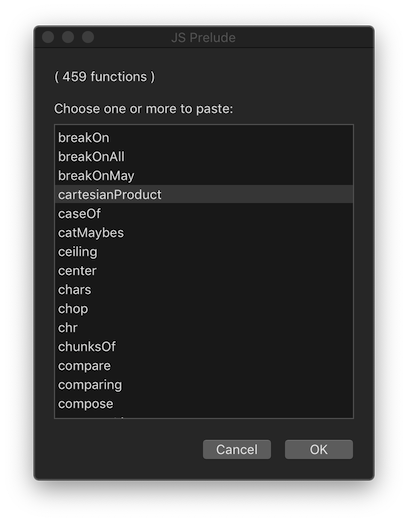
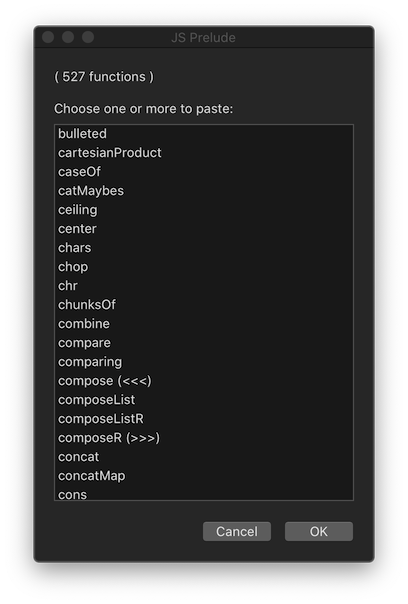
Updated ReadMe.md and the included png

Changed region(s): [[0.1176, 0.092, 0.8824, 0.8276], [0.0882, 0.8276, 0.9118, 0.9502], [0.0882, 0.0307, 0.9118, 0.092]]

diff --git a/README.md b/README.md
@@ -24,50 +24,103 @@ in the case of macOS, the [jxaSystemIO.js](https://github.com/RobTrew/prelude-jx
 ```javascript
 (() => {
     'use strict';
+    
+    // Display a menu of functions to select and copy.
+    // Rob Trew @2020
 
-    // Library files at:
-    // https://github.com/RobTrew/prelude-jxa
-    const jsonPath = '~/prelude-jxa/jsPreludeDict.json';
+    ObjC.import('AppKit')
 
-    // main :: IO ()
-    const main = () =>
-        bindLR(
-            bindLR(
-                doesFileExist(jsonPath) ? (
-                    readFileLR(jsonPath)
-                ) : Left(`File not found at path: '${fp}'`),
-                jsonParseLR
-            ),
-            dctFns => {
-                const
-                    sa = standardSEAdditions(),
-                    ks = Object.keys(dctFns),
-                    choice = (
-                        sa.activate(),
-                        sa.chooseFromList(
-                            ks, {
-                                withTitle: 'JS Prelude',
-                                withPrompt: `( ${ks.length} functions )` +
-                                    '\n\nChoose one or more to paste:',
-                                defaultItems: ks[0],
-                                multipleSelectionsAllowed: true,
-                                emptySelectionAllowed: true
-                            }
+    // ---------------------- MAIN ----------------------
+    const main = () => {
+        const inner = () => {
+            const
+                fpFolder = '~/prelude-jxa',
+                menuJSONFile = 'jsPreludeMenu.json';
+            return either(
+                alert('JavaScript functions')
+            )(
+                // Copied to clipboard and returned.
+                x => (
+                    copyText(x),
+                    x
+                )
+            )(
+                bindLR(
+                    readFileLR(
+                        combine(fpFolder)(menuJSONFile)
+                    )
+                )(
+                    json => bindLR(
+                        jsonParseLR(json)
+                    )(
+                        dict => bindLR(
+                            showMenuLR(true)(
+                                'Functions'
+                            )(Object.keys(dict))
+                        )(
+                            ks => Right(
+                                ks.map(k => dict[k])
+                                .join('\n\n\n')
+                            )
                         )
-                    );
-                return choice ? (() => {
-                    const
-                        strFns = choice.map(k => dctFns[k])
-                        .join('\n\n');
-                    return (
-                        sa.setTheClipboardTo(strFns),
-                        Right(strFns)
-                    );
-                })() : Left('User cancelled.');
-            }
-        );
+                    )
+                )
+            )
+        };
 
-    // GENERIC FUNCTIONS --------------------------------------
+        // alert :: String => String -> IO String
+        const alert = title =>
+            s => {
+                const sa = Object.assign(
+                    Application('System Events'), {
+                        includeStandardAdditions: true
+                    });
+                return (
+                    sa.activate(),
+                    sa.displayDialog(s, {
+                        withTitle: title,
+                        buttons: ['OK'],
+                        defaultButton: 'OK'
+                    }),
+                    s
+                );
+            };
+
+        // copyText :: String -> IO String
+        const copyText = s => {
+            const pb = $.NSPasteboard.generalPasteboard;
+            return (
+                pb.clearContents,
+                pb.setStringForType(
+                    $(s),
+                    $.NSPasteboardTypeString
+                ),
+                s
+            );
+        };
+
+        return inner();
+    };
+
+    // ---------------- JS PRELUDE - JXA ----------------
+
+    // readFileLR :: FilePath -> Either String IO String
+    const readFileLR = fp => {
+        const
+            e = $(),
+            ns = $.NSString
+            .stringWithContentsOfFileEncodingError(
+                $(fp).stringByStandardizingPath,
+                $.NSUTF8StringEncoding,
+                e
+            );
+        return ns.isNil() ? (
+            Left(ObjC.unwrap(e.localizedDescription))
+        ) : Right(ObjC.unwrap(ns));
+    };
+
+
+    // ------------------- JS PRELUDE -------------------
 
     // Left :: a -> Either a b
     const Left = x => ({
@@ -81,57 +134,76 @@ in the case of macOS, the [jxaSystemIO.js](https://github.com/RobTrew/prelude-jx
         Right: x
     });
 
-    // bindLR (>>=) :: Either a -> (a -> Either b) -> Either b
-    const bindLR = (m, mf) =>
-        m.Right !== undefined ? (
-            mf(m.Right)
-        ) : m;
+    // bindLR (>>=) :: Either a -> 
+    // (a -> Either b) -> Either b
+    const bindLR = m =>
+        mf => undefined !== m.Left ? (
+            m
+        ) : mf(m.Right);
 
-    // doesFileExist :: FilePath -> IO Bool
-    const doesFileExist = strPath => {
-        const ref = Ref();
-        return $.NSFileManager.defaultManager
-            .fileExistsAtPathIsDirectory(
-                $(strPath)
-                .stringByStandardizingPath, ref
-            ) && ref[0] !== 1;
-    };
+    // combine (</>) :: FilePath -> FilePath -> FilePath
+    const combine = fp =>
+        // Two paths combined with a path separator. 
+        // Just the second path if that starts 
+        // with a path separator.
+        fp1 => Boolean(fp) && Boolean(fp1) ? (
+            '/' === fp1.slice(0, 1) ? (
+                fp1
+            ) : '/' === fp.slice(-1) ? (
+                fp + fp1
+            ) : fp + '/' + fp1
+        ) : fp + fp1;
+
+    // either :: (a -> c) -> (b -> c) -> Either a b -> c
+    const either = fl =>
+        // Application of the function fl to the
+        // contents of any Left value in e, or
+        // the application of fr to its Right value.
+        fr => e => 'Either' === e.type ? (
+            undefined !== e.Left ? (
+                fl(e.Left)
+            ) : fr(e.Right)
+        ) : undefined;
 
     // jsonParseLR :: String -> Either String a
     const jsonParseLR = s => {
         try {
             return Right(JSON.parse(s));
         } catch (e) {
-            return Left(`${e.message} (line:${e.line} col:${e.column})`);
+            return Left(
+                `${e.message} (line:${e.line} col:${e.column})`
+            );
         }
     };
 
-    // readFileLR :: FilePath -> Either String String
-    const readFileLR = strPath => {
-        const
-            error = $(),
-            str = ObjC.unwrap(
-                $.NSString.stringWithContentsOfFileEncodingError(
-                    $(strPath)
-                    .stringByStandardizingPath,
-                    $.NSUTF8StringEncoding,
-                    error
-                )
-            );
-        return Boolean(error.code) ? (
-            Left(error.message)
-        ) : Right(str);
-    };
+    // showMenuLR :: Bool -> String -> [String] -> 
+    // Either String [String]
+    const showMenuLR = blnMult =>
+        title => xs => 0 < xs.length ? (() => {
+            const sa = Object.assign(
+                Application('System Events'), {
+                    includeStandardAdditions: true
+                });
+            sa.activate();
+            const v = sa.chooseFromList(xs, {
+                withTitle: title,
+                withPrompt: 'Select' + (
+                    blnMult ? (
+                        ' one or more of ' +
+                        xs.length.toString()
+                    ) : ':'
+                ),
+                defaultItems: xs[0],
+                okButtonName: 'OK',
+                cancelButtonName: 'Cancel',
+                multipleSelectionsAllowed: blnMult,
+                emptySelectionAllowed: false
+            });
+            return Array.isArray(v) ? (
+                Right(v)
+            ) : Left('User cancelled ' + title + ' menu.');
+        })() : Left(title + ': No items to choose from.');
 
-    // JXA   ---
-
-    // standardSEAdditions :: () -> Application
-    const standardSEAdditions = () =>
-        Object.assign(Application('System Events'), {
-            includeStandardAdditions: true
-        });
-
-    // MAIN ---
     return main();
 })();
 ```
